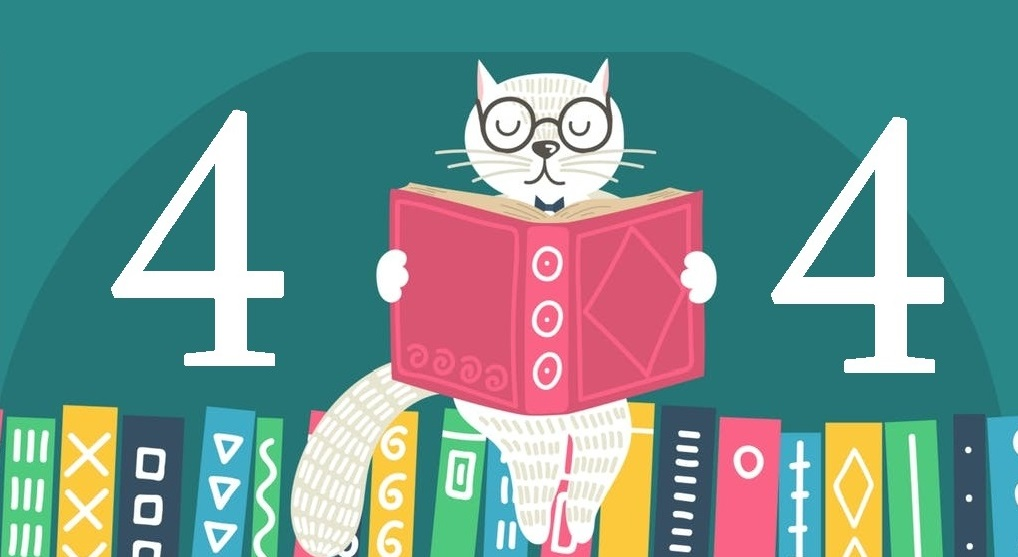
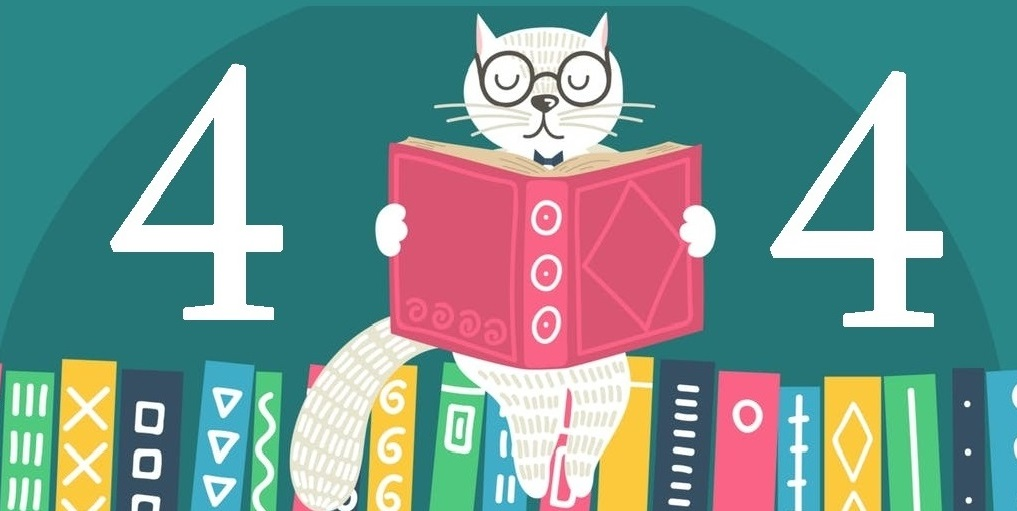
feat: hide nav and footer on 404 page

diff --git a/Books-Online-Shop/src/app/shared/components/page-404/page404.component.ts b/Books-Online-Shop/src/app/shared/components/page-404/page404.component.ts
@@ -1,15 +1,29 @@
-import { Component, OnInit } from '@angular/core';
+import { Component, OnInit, OnDestroy } from '@angular/core';
+import { Observable } from 'rxjs';
+import { Store } from '@ngrx/store';
+import {showNav,hideNav} from './state/nav-visibility.actions';
 
 @Component({
   selector: 'app-page404',
   templateUrl: './page404.component.html',
-  styleUrls: ['./page404.component.scss']
+  styleUrls: ['./page404.component.scss'],
 })
-export class Page404Component implements OnInit {
-
-  constructor() { }
-
-  ngOnInit(): void {
+export class Page404Component implements OnInit, OnDestroy {
+  nav$: Observable<boolean>;
+  constructor(private store:Store<{nav:boolean}>) {
+    this.nav$=store.select('nav');
   }
 
+  ngOnInit(): void {
+    this.hideNav();
+  }
+  ngOnDestroy(): void {
+    this.showNav();
+  }
+  hideNav() {
+    this.store.dispatch(hideNav());
+  }
+  showNav() {
+    this.store.dispatch(showNav());
+  }
 }

diff --git a/Books-Online-Shop/src/app/app.component.ts b/Books-Online-Shop/src/app/app.component.ts
@@ -1,5 +1,7 @@
 import { Component, HostListener } from '@angular/core';
 import { FirebaseAuthService } from './shared/services/firebase-auth/firebase-auth.service';
+import { Observable } from 'rxjs';
+import { Store } from '@ngrx/store';
 
 @Component({
   selector: 'app-root',
@@ -7,10 +9,13 @@ import { FirebaseAuthService } from './shared/services/firebase-auth/firebase-au
   styleUrls: ['./app.component.scss']
 })
 export class AppComponent {
+  nav$: Observable<boolean>;
   scrolled:boolean=false;
   fadeSteps:number=0;
   title = 'Books-Online-Shop';
-  constructor(public firebaseAuth:FirebaseAuthService){}
+  constructor(public firebaseAuth:FirebaseAuthService, private store:Store<{nav:boolean}>){
+    this.nav$=store.select('nav');
+  }
   @HostListener('window:scroll', ['$event'])
   onWindowScroll($event) {
     const numb = window.scrollY;

diff --git a/Books-Online-Shop/src/app/auth/auth-routing.module.ts b/Books-Online-Shop/src/app/auth/auth-routing.module.ts
@@ -1,5 +1,6 @@
 import { NgModule } from '@angular/core';
 import { RouterModule, Routes } from '@angular/router';
+import { AuthPageGuard } from '../shared/guards/auth-pages-guard/auth-page.guard';
 import { ForgotPasswordComponent } from './forgot-password/forgot-password.component';
 import { SignInComponent } from './sign-in/sign-in.component';
 import { SignUpComponent } from './sign-up/sign-up.component';
@@ -8,15 +9,18 @@ const routes: Routes = [
   {
     path: 'forgot-password',
     component: ForgotPasswordComponent,
+    canActivate:[AuthPageGuard]
   },
   
   {
     path: 'sign-in',
     component: SignInComponent,
+    canActivate:[AuthPageGuard]
   },
   {
     path: 'sign-up',
     component: SignUpComponent,
+    canActivate:[AuthPageGuard]
   },
 ];
 

diff --git a/Books-Online-Shop/src/app/app.module.ts b/Books-Online-Shop/src/app/app.module.ts
@@ -29,7 +29,8 @@ import { BooksReadModule } from './books-read/books-read.module';
 import { BooksReadRoutingModule } from './books-read/books-read-routing.module';
 import { Page404Module } from './shared/components/page-404/page404.module';
 import { Page404RoutingModule } from './shared/components/page-404/page404-routing.module';
-
+import { StoreModule } from '@ngrx/store';
+import {navReducer} from './shared/components/page-404/state/nav-visibility.reducer';
 
 
 @NgModule({
@@ -71,6 +72,7 @@ import { Page404RoutingModule } from './shared/components/page-404/page404-routi
       storageBucket: 'books-app-project-307817.appspot.com',
       messagingSenderId: '828802712642',
     }),
+    StoreModule.forRoot({nav:navReducer}, {}),
     
   ],
   providers: [],

diff --git a/Books-Online-Shop/src/app/shared/components/page-404/page404.component.scss b/Books-Online-Shop/src/app/shared/components/page-404/page404.component.scss
@@ -1,34 +1,16 @@
 .main {
-  top: 20px;
+  display: flex;
+  align-items: center;
   width: 100%;
-  height: fit-content;
+  height: 100vh;
   position: relative;
   overflow: hidden;
-  margin-bottom: 20px;
+  padding-top: 30px;
+  background-color: #298787;
 
   img {
     width: 100%;
     z-index: -1;
     object-fit: cover;
-  }
-}
-
-@media only screen and (max-width: 575px) {
-  .main {
-    top: 70px;
-    margin-bottom: 70px;
-  }
-}
-
-@media only screen and (min-width: 576px) and (max-width: 767px) {
-  .main {
-    top: 70px;
-    margin-bottom: 70px;
-  }
-}
-@media only screen and (min-width: 768px) and (max-width: 1199px) {
-  .main {
-    top: 30px;
-    margin-bottom: 30px;
   }
 }

diff --git a/Books-Online-Shop/src/app/app.component.html b/Books-Online-Shop/src/app/app.component.html
@@ -1,4 +1,4 @@
-<app-navigation *ngIf="(firebaseAuth.currentUser$ | async)?.uid && (firebaseAuth.currentUser$ | async)?.email!=='admin@gmail.com' && !scrolled"
+<app-navigation *ngIf="(firebaseAuth.currentUser$ | async)?.uid && (nav$ | async) && (firebaseAuth.currentUser$ | async)?.email!=='admin@gmail.com' && !scrolled"
 [fadeSteps]="fadeSteps"></app-navigation>
 <router-outlet></router-outlet>
-<app-footer *ngIf="(firebaseAuth.currentUser$ | async)?.uid && (firebaseAuth.currentUser$ | async)?.email!=='admin@gmail.com'"></app-footer>
+<app-footer *ngIf="(firebaseAuth.currentUser$ | async)?.uid && (nav$ | async) && (firebaseAuth.currentUser$ | async)?.email!=='admin@gmail.com'"></app-footer>

diff --git a/Books-Online-Shop/src/app/shared/guards/auth-pages-guard/auth-page.guard.ts b/Books-Online-Shop/src/app/shared/guards/auth-pages-guard/auth-page.guard.ts
@@ -1,0 +1,17 @@
+import { Injectable } from '@angular/core';
+import { CanActivate, ActivatedRouteSnapshot, RouterStateSnapshot, UrlTree } from '@angular/router';
+import { Observable } from 'rxjs';
+import { FirebaseAuthService } from '../../services/firebase-auth/firebase-auth.service';
+
+@Injectable({
+  providedIn: 'root'
+})
+export class AuthPageGuard implements CanActivate {
+  constructor(private _firebaseAuthService:FirebaseAuthService){}
+  canActivate(
+    route: ActivatedRouteSnapshot,
+    state: RouterStateSnapshot): Observable<boolean | UrlTree> | Promise<boolean | UrlTree> | boolean | UrlTree {
+    return this._firebaseAuthService.userIsInactive();
+  }
+  
+}

diff --git a/Books-Online-Shop/src/app/admin-panel/admin-panel-routing.module.ts b/Books-Online-Shop/src/app/admin-panel/admin-panel-routing.module.ts
@@ -11,7 +11,7 @@ import { OptionsComponent } from './options/options.component';
 import { UserBooksReadComponent } from './books-read/user-books/user-books-read/user-books-read.component';
 import { UserBooksBoughtComponent } from './books-sold/user-books/user-books-bought/user-books-bought.component';
 import { AllBooksReadComponent } from './books-read/books-read/books-read.component';
-import { AuthGuard } from '../shared/guards/auth.guard';
+import { AuthGuard } from '../shared/guards/auth-guard/auth.guard';
 import { AdminGuard } from './shared/guards/admin.guard';
 
 const routes: Routes = [{

diff --git a/Books-Online-Shop/src/app/shared/services/firebase-auth/firebase-auth.service.ts b/Books-Online-Shop/src/app/shared/services/firebase-auth/firebase-auth.service.ts
@@ -139,6 +139,18 @@ export class FirebaseAuthService {
       })
     );
   }
+  userIsInactive() {
+    return this.currentUser$.pipe(
+      map((userInfo: any) => {
+        if (userInfo && userInfo.uid) {
+          this._router.navigate(['/home']);
+          return false;
+        } else {
+          return true;
+        }
+      })
+    );
+  }
   userIsAdmin() {
     return this.currentUser$.pipe(
       map((userInfo: any) => {

diff --git a/Books-Online-Shop/src/app/shared/guards/auth-guard/auth.guard.ts b/Books-Online-Shop/src/app/shared/guards/auth-guard/auth.guard.ts
@@ -1,7 +1,7 @@
 import { Injectable } from '@angular/core';
 import { CanActivate, ActivatedRouteSnapshot, RouterStateSnapshot, UrlTree, Router } from '@angular/router';
 import { Observable } from 'rxjs';
-import { FirebaseAuthService } from '../services/firebase-auth/firebase-auth.service';
+import { FirebaseAuthService } from '../../services/firebase-auth/firebase-auth.service';
 
 @Injectable({
   providedIn: 'root'

diff --git a/Books-Online-Shop/src/app/books-read/books-read-routing.module.ts b/Books-Online-Shop/src/app/books-read/books-read-routing.module.ts
@@ -1,6 +1,6 @@
 import { NgModule } from '@angular/core';
 import { RouterModule, Routes } from '@angular/router';
-import { AuthGuard } from '../shared/guards/auth.guard';
+import { AuthGuard } from '../shared/guards/auth-guard/auth.guard';
 import { BooksReadComponent } from './books-read.component';
 
 const routes: Routes = [{ path: 'books-read', component: BooksReadComponent,canActivate:[AuthGuard] }];

diff --git a/Books-Online-Shop/src/app/books-search/books-search-routing.module.ts b/Books-Online-Shop/src/app/books-search/books-search-routing.module.ts
@@ -1,6 +1,6 @@
 import { NgModule } from '@angular/core';
 import { RouterModule, Routes } from '@angular/router';
-import { AuthGuard } from '../shared/guards/auth.guard';
+import { AuthGuard } from '../shared/guards/auth-guard/auth.guard';
 import { BooksSearchComponent } from './books-search.component';
 import { BooksResolverService } from './shared/services/books-resolver.service';
 
